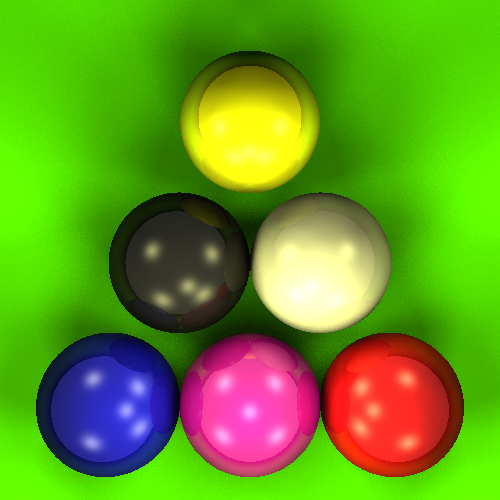
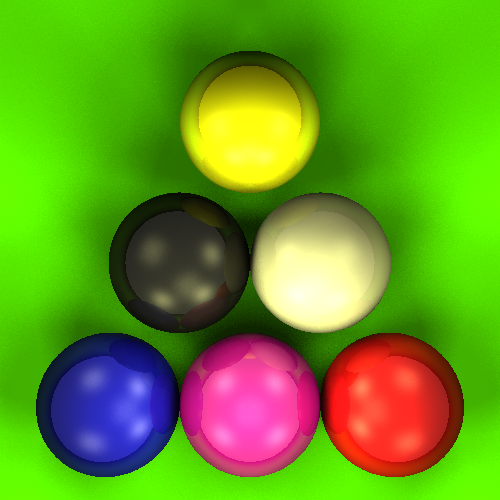
added soft shadows

diff --git a/raytracer/ray_tracer.py b/raytracer/ray_tracer.py
@@ -161,6 +161,8 @@ def color_by_lights(closest_hit_point, closest_obj, lights, objects, material, c
             diffuse_light = np.array(light.color) * np.array(material.diffuse_color) * diff_angle
 
             reflected_ray = 2 * np.dot(light_dir, normal) * normal - light_dir
+            reflected_ray /= np.linalg.norm(reflected_ray)
+            
             spec_angle = max(0.0, np.dot(reflected_ray, observer_ray.V))
             specular_light = np.array(light.color) * np.array(material.specular_color) * (spec_angle ** material.shininess) * light.specular_intensity
             colors += light_intensity * (diffuse_light + specular_light)
@@ -174,8 +176,7 @@ def create_light_list(objects):
             lights.append(obj)
     return lights
 
-def compute_color(ray, objects, materials, camera, scene_settings):
-    lights = create_light_list(objects)
+def compute_color(ray, objects, materials, camera, scene_settings, lights):
     return get_color(scene_settings, ray, lights, materials, objects, camera, scene_settings.max_recursions)
 
 
@@ -194,16 +195,13 @@ def main():
     image_array = np.zeros((args.height, args.width, 3), dtype=float)
     #create pixel grid
     row_head = camera.top_left_pixel
+    lights = create_light_list(objects)
     for y in tqdm(range(args.height), desc="Rendering"):
     #for y in range(args.height):
         curr_pixel = row_head
         for x in range(args.width):
             curr_ray = Ray(camera.position, curr_pixel)
-            t_min, closest_hit_point, closest_obj = curr_ray.find_ray_closest_intersection(objects)
-            if closest_obj is None:
-                color = np.array(scene_settings.background_color)
-            else:
-                color = np.array(compute_color(curr_ray, objects, materials, camera, scene_settings))
+            color = np.array(compute_color(curr_ray, objects, materials, camera, scene_settings, lights))
 
             image_array[y, x] = np.clip(color, 0, 1)
             curr_pixel = curr_pixel + camera.pixel_size * camera.width_v
